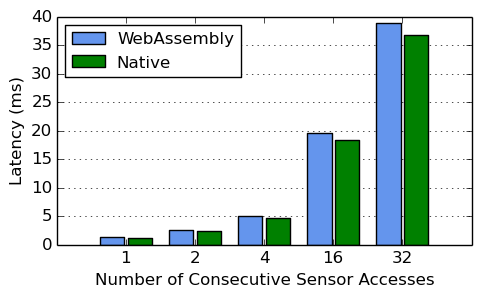
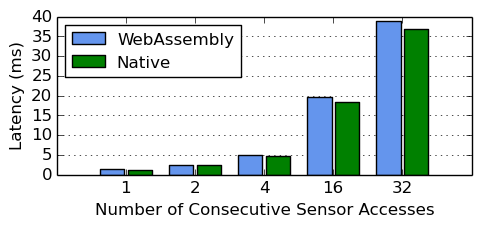
update paper figures

diff --git a/media/plots/cluster_util.py b/media/plots/cluster_util.py
@@ -2,7 +2,7 @@ import matplotlib
 import matplotlib.pyplot as plt
 import numpy as np
 
-plt.rcParams["figure.figsize"] = (5,3.2)
+plt.rcParams["figure.figsize"] = (5,1.7)
 plt.rcParams['axes.axisbelow'] = True
 
 width = 5  # the width of the bars
@@ -20,19 +20,19 @@ labels_ints = [5 * int(l) - width/2 for l in labels]
 x = np.arange(len(labels))  # the label locations
 
 fig, ax = plt.subplots()
-ax.bar(labels_ints, sensor_framewrk, width, linewidth=0, label='SimpleSensor', color='green')
+ax.bar(labels_ints, sensor_framewrk, width, linewidth=0, label='SensorSample', color='green')
 ax.bar(labels_ints, map_reduce_means, width, linewidth=0, label='MapReduce', bottom=sensor_framewrk, color='cornflowerblue')
-ax.bar(labels_ints, ddflow_framework, width, linewidth=0, label='DDFlow', bottom=ddflow_bottom, color='orange')
+ax.bar(labels_ints, ddflow_framework, width, linewidth=0, label='Dataflow', bottom=ddflow_bottom, color='orange')
 ax.set_ylim([0,100])
-ax.set_xlim([0,800])
+ax.set_xlim([0,600])
 
 # Add some text for labels, title and custom x-axis tick labels, etc.
-ax.set_ylabel('Cluster Utilization (%)')
-ax.set_xlabel('Time (s)')
+ax.set_ylabel('Cluster CPU\nUtilization (%)')
+# ax.set_xlabel('Time (s)')
 ax.yaxis.grid()
 # ax.set_xticks([60, 180, 300, 420, 540])
 # ax.set_xticklabels([60 * l for l in labels_ints])
-ax.legend(loc='upper right', prop={'size': 12})
+ax.legend(loc='upper right', prop={'size': 10}, ncol=3, bbox_to_anchor=(1.05,1.4))
 
 
 # def autolabel(rects):

diff --git a/media/plots/sensor_util.py b/media/plots/sensor_util.py
@@ -2,7 +2,7 @@ import matplotlib
 import matplotlib.pyplot as plt
 import numpy as np
 
-plt.rcParams["figure.figsize"] = (5,3.2)
+plt.rcParams["figure.figsize"] = (5,2)
 plt.rcParams['axes.axisbelow'] = True
 
 width = 5  # the width of the bars
@@ -24,15 +24,15 @@ ax.bar(labels_ints, sensor_framewrk, width, linewidth=0, label='SimpleSensor', c
 ax.bar(labels_ints, map_reduce_means, width, linewidth=0, label='MapReduce', bottom=sensor_framewrk, color='cornflowerblue')
 # ax.bar(labels_ints, ddflow_framework, width, linewidth=0, label='DDFlow', bottom=ddflow_bottom, color='orange')
 ax.set_ylim([0,100])
-ax.set_xlim([0,800])
+ax.set_xlim([0,600])
 
 # Add some text for labels, title and custom x-axis tick labels, etc.
-ax.set_ylabel('Sensor Utilization (%)')
+ax.set_ylabel('Sensor CPU\nUtilization (%)', fontsize=12)
 ax.set_xlabel('Time (s)')
 ax.yaxis.grid()
 # ax.set_xticks([60, 180, 300, 420, 540])
 # ax.set_xticklabels([60 * l for l in labels_ints])
-ax.legend(loc='upper right', prop={'size': 12})
+# ax.legend(loc='upper right', prop={'size': 12})
 
 
 # def autolabel(rects):

diff --git a/media/plots/interactivity.py b/media/plots/interactivity.py
@@ -1,17 +1,21 @@
 import matplotlib.pyplot as plt
-plt.rcParams["figure.figsize"] = (5.5,3.3)
+plt.rcParams["figure.figsize"] = (5.5,2)
 
-y1 = [1,1,1,2,2,2,3,3,3,4,5,6,6,6,7,7,8,8]
-x = [10,20,30,40,50,60,70,80,90,100,110,120,130,140,150,160,170,180]
+y1 = [1,1,1,1,2,2,2,2,3,3,3,3,4,4,5,5,6,6,6,6,7,7,7,8,8]
+x = [10,20,30,40,40,50,60,70,70,80,90,100,100,110,110,130,130,140,150,155,155,170,190,190,200]
+
+iteration = [0,0,1,1,2,2,3,3,4,4,5,5,6,6,7,7,8,8,9,9]
+time = [0,42,42,62,62,87,87,131,131,189,189,241,241,265,265,325,325,373,373,400]
+time_m = [x / 60.0 for x in time]
 
 fig=plt.figure()
 
 # plt.plot(x,y,'o',color='b')
-plt.plot(x,y1,linewidth=2.0,label='Embedded Agent')
+plt.plot(iteration,time_m,linewidth=2.0,label='Embedded Agent')
 # plt.plot(x,y2,linewidth=2.0,label='Standard Agent')
 # plt.legend(prop={'size': 12})
 plt.grid()
-plt.xlabel('Time (s)')
-plt.ylabel('Development Iteration')
+plt.ylabel('Elapsed Time (m)')
+plt.xlabel('Development Iteration')
 
 plt.savefig('interactivity.png', bbox_inches='tight')

diff --git a/media/plots/energy_compute_vs_radio.py b/media/plots/energy_compute_vs_radio.py
@@ -1,5 +1,5 @@
 import matplotlib.pyplot as plt
-plt.rcParams["figure.figsize"] = (5.5,3.3)
+plt.rcParams["figure.figsize"] = (5.5,2)
 y = [7.52, 15.66, 28.83, 55.31, 21.5, 43.3, 100, 217, 184, 241]
 x = [1998, 2004, 2005, 2012, 2015, 2016, 2017, 2018, 2019, 2020]
 # fig=plt.figure()
@@ -11,6 +11,6 @@ x = [1998, 2004, 2005, 2012, 2015, 2016, 2017, 2018, 2019, 2020]
 plt.plot(x,y,'o',color='b')
 plt.grid()
 plt.xlabel('Year')
-plt.ylabel('MCU cycles per bit TX at unit energy')
+plt.ylabel('MCU cycles per bit\nTX at unit energy')
 # plt.show()
 plt.savefig('energy_compute_vs_radio.png', bbox_inches='tight')

diff --git a/media/plots/agentutilization.py b/media/plots/agentutilization.py
@@ -1,5 +1,5 @@
 import matplotlib.pyplot as plt
-plt.rcParams["figure.figsize"] = (5.5,3.3)
+plt.rcParams["figure.figsize"] = (5.5,2.5)
 y1 = [10, 5, 2.5, 1.25, 0.6, 0.3, 0.15, 0.07, 0.035, 0.02, 0.01, 0.005, 0.0025]
 y2 = [2, 1, 0.5, 1.25, 0.6, 0.3, 0.15, 0.07, 0.035, 0.02, 0.01, 0.005, 0.0025]
 x = [0.1, 2, 4, 8, 16, 32, 64, 128, 256, 512, 1024, 2048, 4096]

diff --git a/media/plots/powertradeoff.py b/media/plots/powertradeoff.py
@@ -17,7 +17,7 @@ plt.plot(x,y3, '--', linewidth=2.0, color='r')
 plt.legend(prop={'size': 12})
 plt.grid()
 plt.xlabel('Filter Rate (%)')
-plt.ylabel('Power (nW)')
+plt.ylabel('Power (uW)')
 
 # plt.show()
 plt.savefig('powertradeoff.png', bbox_inches='tight')

diff --git a/media/plots/wasi-sn-overhead.py b/media/plots/wasi-sn-overhead.py
@@ -2,7 +2,7 @@ import matplotlib
 import matplotlib.pyplot as plt
 import numpy as np
 
-plt.rcParams["figure.figsize"] = (5,3.2)
+plt.rcParams["figure.figsize"] = (5,2.5)
 plt.rcParams['axes.axisbelow'] = True
 
 labels = ['1', '2', '4', '16', '32']
